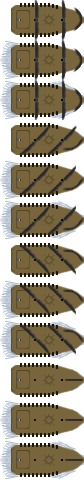
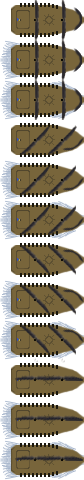
Implemented Basic version of MOAB
I forgot to add sails to the upwind sprites on the spritesheet, so those are on now. I also added the code for the MOAB boss, which works as anticipated. We need to figure out how to make more complicated firing. patterns and how to make individual weapons fire from different places on the sprite. Also reduced max number of islands to 6, which seems good for now.

Changed region(s): [[0.1905, 0.9375, 0.9286, 0.9688], [0.1905, 0.7812, 0.9286, 0.8125], [0.2143, 0.8438, 0.9286, 0.875]]

diff --git a/game.js b/game.js
@@ -59,6 +59,7 @@ GameState.prototype.preload = function() {
     this.game.load.spritesheet('tentacle', 'assets/tentacles.png', 38, 8);
     this.game.load.spritesheet('megaladon', 'assets/megaladon.png', 73, 27);
     this.game.load.spritesheet('junk', 'assets/junkShip.png', 40, 24);
+    this.game.load.spritesheet('moab', 'assets/moab.png', 84, 40);
     this.game.load.image('rocket', 'assets/rocket.png');
     this.game.load.image('seagull', 'assets/seagull.png');
     this.game.load.image('pelican', 'assets/pelican.png');
@@ -90,15 +91,16 @@ GameState.prototype.create = function() {
 
   this.fireButtonHeld = 0;
 
-  //instantiates boss data
+    //instantiates boss data
     this.killedBosses = new Array();
-    this.allBosses = ['kraken', 'ghost', 'megaladon', 'junk'];
+    this.allBosses = ['kraken', 'ghost', 'megaladon', 'junk', 'moab'];
+    //this.allBosses = ['moab'];
 
   //adds islands to map
     this.game.physics.startSystem(Phaser.Physics.ARCADE);
     this.islands = this.game.add.group();
     this.islands.enableBody = true;
-    generateIslands(width, height, 20, 100, 10, 'ship', this.islands);//usually 20 islands
+    generateIslands(width, height, 6, 100, 10, 'ship', this.islands);//usually 20 islands
 
     //creates whitecaps group
     this.whitecaps = this.game.add.group();
@@ -466,6 +468,11 @@ GameState.prototype.update = function () {
           game.physics.arcade.overlap(player1.sprite, enemy.weapon.bullets, playerWasShot);
           enemy.frame = junkFrame(enemy.angle, this.wind);
           junkAI(enemy, this.islands, this.wind);
+        } else if (enemy.key === 'moab'){
+          enemy.frame = squareSailCheckWind(enemy.angle, this.wind);
+          trackMoabWeapons(enemy);
+          moabAI(enemy);
+          avoidIslands(enemy, this.islands);
         }
       }
       if (Math.abs(enemy.body.velocity.x) > oldXSpeed || Math.abs(enemy.body.velocity.y) > oldYSpeed){
@@ -2286,6 +2293,89 @@ return closestIntersection;
           avoidIslands(junk, islands);
     }
 
+    function moabAI(moab){
+      //console.log("Just, you know, doing MOAB stuff");
+      if (moab.patternTime <= 0){
+        //randomly chooses one of the 3 possible patterns if the patternTime has run out
+        moab.pattern = Math.floor(Math.random() * 4);
+        moab.patternTime = 600;
+      } else {
+        moab.patternTime--;
+        if (moab.pattern === 0){
+          moabFiringPattern0(moab);
+        } else if (moab.pattern === 1){
+          moabFiringPattern1(moab);
+        } else if (moab.pattern === 2){
+          moabFiringPattern2(moab);
+        } else {
+          moabFiringPattern3(moab);
+        }
+      }
+      var navigationAngle;
+      console.log("Going to point 1? " + moab.goingToPoint1);
+      if (moab.goingToPoint1){
+        navigationAngle = this.game.math.angleBetween(
+            moab.x, moab.y,
+            moab.point1.x, moab.point1.y
+        );
+
+      } else {
+        navigationAngle = this.game.math.angleBetween(
+            moab.x, moab.y,
+            moab.point2.x, moab.point2.y
+        );
+      }
+        navigate(moab, navigationAngle);
+        if (moab.goingToPoint1 && (game.physics.arcade.distanceBetween(moab, moab.point1) < 10)){
+          console.log("passed point1");
+          moab.goingToPoint1 = false;
+        } else if (!moab.goingToPoint1 && (game.physics.arcade.distanceBetween(moab, moab.point2) < 10)){
+          console.log("passed point2");
+          moab.goingToPoint1 = true;
+        }
+    }
+
+    function  moabFiringPattern0(moab){
+      console.log("Firing pattern 0");
+      for (i = 0; i < moab.weapons.length; i++){
+        if (moab.patternTime % 10 === 0){
+        moab.weapons[0][i].fire();
+        moab.weapons[1][i].fire();
+        }
+      }
+    }
+
+    function  moabFiringPattern1(moab){
+      console.log("Firing Pattern 1");
+      for (i = 0; i < moab.weapons.length; i++){
+        if (moab.patternTime/10 % 2 === 0){
+          moab.weapons[0][i].fire();
+        } else{
+          moab.weapons[1][i].fire();
+        }
+      }
+    }
+
+    function  moabFiringPattern2(moab){
+      console.log("Firing Pattern 2");
+      for (i = 0; i < moab.weapons.length; i++){
+        if ((i % 2) === (moab.patternTime % 2)){
+        moab.weapons[0][i].fire();
+        moab.weapons[1][i].fire();
+      }
+      }
+    }
+
+    function  moabFiringPattern3(moab){
+      console.log("Firing Pattern 3");
+      for (i = 0; i < moab.weapons.length; i++){
+        if ((moab.patternTime % 50 >= 100)){
+          moab.weapons[0][i].fire();
+          moab.weapons[1][i].fire();
+        }
+      }
+    }
+
 
   //calls the appropriate functions for each boss depending on what string is passed in
   //TODO: add otehr bosses
@@ -2301,6 +2391,9 @@ return closestIntersection;
         break;
       case 'junk':
         boss = junkShip();
+        break;
+      case 'moab':
+        boss = motherOfAllBoats(this.wind);
         break;
       default://kraken
         boss = releaseKraken();
@@ -2496,6 +2589,114 @@ return closestIntersection;
     weapon.trackSprite(junk, 0, 0, false);
     junk.weapon = weapon;
     return junk;
+  }
+
+  function motherOfAllBoats(wind){
+    var x, y, angle, xSpeed, ySpeed, point1x, point1y, point2x, point2y;
+    //find an open area on the upwind edge
+    switch(wind){
+      case 'N':
+        x = Math.random() * this.width; //TODO: make this find an empty area instead of a random one
+        y = 0;
+        angle = 90;
+        xSpeed = 0;
+        ySpeed = 250;
+      break;
+      case 'S':
+        x = Math.random() * this.width; //TODO: make this find an empty area instead of a random one
+        y = this.height;
+        angle = -90;
+        xSpeed = 0;
+        ySpeed = -250;
+      break;
+      case 'W':
+        x = 0;
+        y = Math.random() * this.height;
+        angle = 0;
+        xSpeed = 250;
+        ySpeed = 0;
+      break;
+      default://east
+        x = this.width;
+        y = Math.random() * this.height;
+        angle = 180;
+        xSpeed = -250;
+        ySpeed = 0;
+    }
+    var moab = this.game.add.sprite(x, y, 'moab');
+    moab.angle = angle;
+    moab.enableBody = true;
+    this.game.physics.enable(moab, Phaser.Physics.ARCADE);
+    moab.anchor.setTo(0.5, 0.5);
+    console.log("Holy mother of all boats! " + moab.body);
+    moab.body.velocity.x = xSpeed;
+    moab.body.velocity.y = ySpeed;
+    moab.maxSpeed = 250;
+    moab.TURN_RATE = 16;
+    moab.health = enemyHealth['manowar'] * 3;
+    moab.weapons = makeMoabWeapons(moab);
+    moab.patternTime = 600;
+    moab.pattern = 0;
+    point1x = Math.random() * this.width; //TODO: make this find an open area instead of just a random one
+    point1y = Math.random() * this.height;
+    point2x = point1x - 600;
+    point2y =  (Math.random()>0.5?1:-1) * (Math.random() * 245) + point1y;
+    var point1 = new Phaser.Point(point1x, point1y)
+    var point2 = new Phaser.Point(point2x, point2y);
+    moab.point1 = point1;
+    moab.point2 = point2;
+    moab.goingToPoint1 = true;
+    return moab;
+  }
+
+  //TODO: figure out how to make weapons track a specific part of the boat.
+  //just changing the fireFrom(x,y) makes bullets fire from the ocean, because they move
+  //a specific distance up or down relative to the sprite's anchor, but not to its angle
+  function makeMoabWeapons(moab){
+    var LWeapons = new Array();
+    for (var i = 0; i < 10; i++){
+      var LWeapon = this.game.add.weapon(100, 'cannonball');
+      LWeapon.bulletKillType = Phaser.Weapon.KILL_LIFESPAN;
+      LWeapon.bulletLifespan = 2250;
+      LWeapon.bulletSpeed = 200;
+      LWeapon.fireRate = 30;
+      LWeapon.bulletAngleVariance = 2;
+      LWeapon.bulletCollideWorldBounds = false;
+      LWeapon.bulletWorldWrap = true;
+      LWeapon.trackSprite(moab, 0, 0, false);
+      LWeapons.push(LWeapon);
+    }
+    var RWeapons = new Array();
+    for (var i = 0; i < 10; i++){
+      var RWeapon = this.game.add.weapon(100, 'cannonball');
+      RWeapon.bulletKillType = Phaser.Weapon.KILL_LIFESPAN;
+      RWeapon.bulletLifespan = 2250;
+      RWeapon.bulletSpeed = 200;
+      RWeapon.fireRate = 30;
+      RWeapon.bulletAngleVariance = 2;
+      RWeapon.bulletCollideWorldBounds = false;
+      RWeapon.bulletWorldWrap = true;
+      RWeapon.trackSprite(moab, 0, 0, false);
+      RWeapons.push(RWeapon);
+    }
+    var weapons = new Array();
+    weapons.push(LWeapons);
+    weapons.push(RWeapons);
+    console.log("MOAB weapons made");
+    console.log("LWeapons: " + LWeapons + " first weapon: " + LWeapons[0]);
+    return weapons;
+  }
+
+  function trackMoabWeapons(moab){
+    var LWeapon, RWeapon;
+    var LWeapons = moab.weapons[0];
+    var RWeapons = moab.weapons[1];
+    for (var i = 0; i < 10; i++){
+      LWeapon = LWeapons[i];
+      RWeapon = RWeapons[i];
+      LWeapon.fireAngle = moab.angle - 90;
+      RWeapon.fireAngle = moab.angle + 90;
+    }
   }
 
   function isBossWave(){
